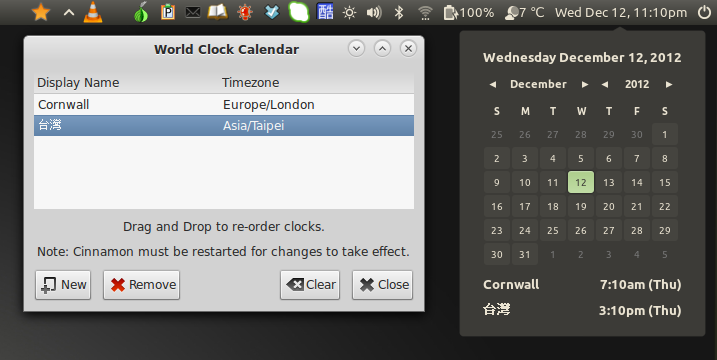
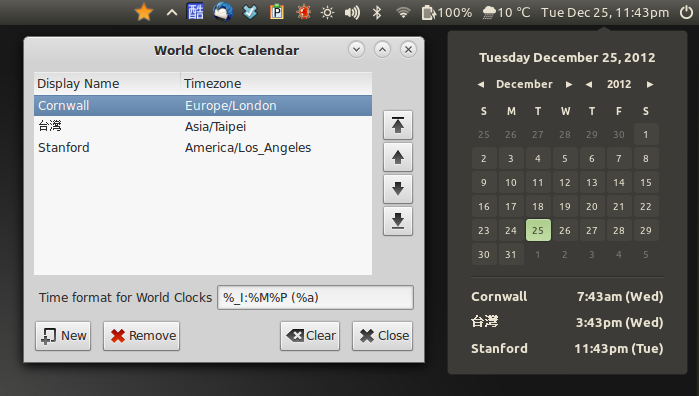
version 0.4

diff --git a/calendar@simonwiles.net/applet.js b/calendar@simonwiles.net/applet.js
@@ -1,27 +1,24 @@
 /*
  *   World Clock Calendar applet calendar@simonwiles.net
  *   Fork of the Cinnamon calendar applet with support for displaying multiple timezones.
- *   version 0.2
+ *   version 0.4
  */
 
 const EXTENSION_UUID = "calendar@simonwiles.net";
-const SCHEMA_NAME = "org.cinnamon.applets.sw_calendar";
 const APPLET_DIR = imports.ui.appletManager.appletMeta[EXTENSION_UUID].path;
 
 const Applet = imports.ui.applet;
-const Calendar = imports.ui.calendar;
-const Clutter = imports.gi.Clutter;
 const Gio = imports.gi.Gio;
-const GLib = imports.gi.GLib;
-const Gtk = imports.gi.Gtk;
 const Lang = imports.lang;
 const Mainloop = imports.mainloop;
-const PopupMenu = imports.ui.popupMenu;
+const Clutter = imports.gi.Clutter;
 const St = imports.gi.St;
-const UPowerGlib = imports.gi.UPowerGlib;
 const Util = imports.misc.util;
-
-let settings;
+const PopupMenu = imports.ui.popupMenu;
+const Calendar = imports.ui.calendar;
+const UPowerGlib = imports.gi.UPowerGlib;
+const GLib = imports.gi.GLib;
+const Gtk = imports.gi.Gtk;
 
 function _onVertSepRepaint(area) {
     let cr = area.get_context();
@@ -40,6 +37,7 @@ function _onVertSepRepaint(area) {
 
 function getSettings(schemaName, appletDir) {
     /* get settings from GSettings */
+
     let schemaDir = appletDir + '/schemas';
 
     // Check if schemas are available in .local or if it's installed system-wide
@@ -82,7 +80,6 @@ MyApplet.prototype = {
             this.menu.addActor(this._calendarArea);
 
             // Fill up the first column
-
             let vbox = new St.BoxLayout({vertical: true});
             this._calendarArea.add(vbox);
 
@@ -98,16 +95,9 @@ MyApplet.prototype = {
             this._calendar = new Calendar.Calendar(this._eventSource);
             vbox.add(this._calendar.actor);
 
-            // World Clocks
-            this._worldclocks = [];
-            for (i in metadata.worldclocks) {
-                let tz = new St.BoxLayout({vertical: false})
-                let tz_label = new St.Label({ style_class: 'datemenu-date-label', text: metadata.worldclocks[i][0] });
-                tz.add(tz_label, {x_align: St.Align.START, expand: true, x_fill: false})
-                this._worldclocks[i] = new St.Label({ style_class: 'datemenu-date-label' });
-                tz.add(this._worldclocks[i], {x_align: St.Align.END, expand: true, x_fill: false})
-                vbox.add(tz);
-            }
+            let separator = new PopupMenu.PopupSeparatorMenuItem();
+            separator.setColumnWidths(1);
+            vbox.add(separator.actor, {y_align: St.Align.END, expand: true, y_fill: false});
 
             // Done with hbox for calendar and event list
 
@@ -126,8 +116,34 @@ MyApplet.prototype = {
             this._upClient = new UPowerGlib.Client();
             this._upClient.connect('notify-resume', getCalendarSettings);
 
+            // World Clocks
+            this._worldclockSettings = getSettings(metadata['settings-schema'], APPLET_DIR);
+            let addWorldClocks = Lang.bind(this, function() {
+                if (this._worldclocks_box) { this._worldclocks_box.destroy(); }
+                this._worldclocks_box = new St.BoxLayout({vertical: true});
+                // add to the calendarArea vbox instead of a new worldclocksArea so that the calendar resizes to the
+                //  full width of the applet drop-down (in case the world clocks are very wide!)
+                vbox.add(this._worldclocks_box);
+                this._worldclock_timeformat = this._worldclockSettings.get_string('time-format');
+                worldclocks = this._worldclockSettings.get_strv('worldclocks');
+                this._worldclocks = [];
+                this._worldclock_labels = [];
+                for (i in worldclocks) { this._worldclocks[i] = worldclocks[i].split('|'); }
+                for (i in this._worldclocks) {
+                    let tz = new St.BoxLayout({vertical: false})
+                    let tz_label = new St.Label({ style_class: 'datemenu-date-label', text: this._worldclocks[i][0] });
+                    tz.add(tz_label, {x_align: St.Align.START, expand: true, x_fill: false})
+                    this._worldclock_labels[i] = new St.Label({ style_class: 'datemenu-date-label' });
+                    tz.add(this._worldclock_labels[i], {x_align: St.Align.END, expand: true, x_fill: false})
+                    this._worldclocks_box.add(tz);
+                }
+            });
+            this._worldclockSettings.connect('changed', addWorldClocks);
+            this._upClient.connect('notify-resume', addWorldClocks);
+
             // Start the clock
             getCalendarSettings();
+            addWorldClocks();
             this._updateClockAndDatePeriodic();
             this.createContextMenu();
 
@@ -148,7 +164,7 @@ MyApplet.prototype = {
 
     _onLaunchWorldClockSettings: function() {
         this.menu.close();
-        let settingsFile = APPLET_DIR + "/settings.py";
+        let settingsFile = APPLET_DIR + "/world_clock_calendar_settings.py";
         Util.spawnCommandLine("python " + settingsFile);
     },
 
@@ -158,16 +174,15 @@ MyApplet.prototype = {
         this.set_applet_label(displayDate.toLocaleFormat(this._dateFormat));
 
         let tooltip = [];
-        for (i in this._metadata.worldclocks) {
-            let tz = this.get_world_time(this._metadata.worldclocks[i][1])
-            this._worldclocks[i].set_text(tz);
-            tooltip.push(rpad(this._metadata.worldclocks[i][0], ' ', 20) + tz);
+        for (i in this._worldclocks) {
+            let tz = this.get_world_time(this._worldclocks[i][1])
+            this._worldclock_labels[i].set_text(tz);
+            tooltip.push(rpad(this._worldclocks[i][0], ' ', 20) + tz);
         }
         this.set_applet_tooltip(tooltip.join('\n'));
 
         if (dateFormattedFull !== this._lastDateFormattedFull) {
             this._date.set_text(dateFormattedFull);
-            //this.set_applet_tooltip(dateFormattedFull);
             this._lastDateFormattedFull = dateFormattedFull;
         }
     },
@@ -232,18 +247,16 @@ MyApplet.prototype = {
     },
 
     get_world_time: function(tz) {
-        let env = GLib.environ_setenv (null, 'TZ', tz, 1)
+        // pass "new Array()" as the first argument, instead of null, because Fedora 17 has an old version of GLib
+        let env = GLib.environ_setenv (new Array(), 'TZ', tz, 1);
         let [res, out, err, status] = GLib.spawn_sync(
-                null, ['date', '+%_I:%M%P (%a)'], env, GLib.SpawnFlags.SEARCH_PATH, null);
-        return out.toString().trim()
-    },
+                null, ['date', '+' + this._worldclock_timeformat], env, GLib.SpawnFlags.SEARCH_PATH, null);
+        return out.toString().trim();
+    }
 
 };
 
 function main(metadata, orientation, panel_height) {
-    // deprecated in favour of storing the clocks in metadata.json, because I can't work out how to unpack a GVariant from GSettings
-    //  in javascripts/GJS (see: http://stackoverflow.com/questions/13736695/unpacking-gvariant-in-javascript)
-    //settings = getSettings(SCHEMA_NAME, APPLET_DIR);
     let myApplet = new MyApplet(metadata, orientation, panel_height);
     return myApplet;
 }

diff --git a/calendar@simonwiles.net/world_clock_calendar_settings.py b/calendar@simonwiles.net/world_clock_calendar_settings.py
@@ -1,17 +1,6 @@
 #!/usr/bin/env python
 #-*- coding:utf-8 -*-
 
-"""
-
-v0.2 - switched to using metadata JSON to store settings, since I can't work
-       out how to unpack a GVariant retreived from GSettings in GJS.  see:
-       stackoverflow.com/questions/13736695/unpacking-gvariant-in-javascript
-
-"""
-
-
-from __future__ import unicode_literals
-
 __program_name__ = 'settings.py'
 __author__ = 'Simon Wiles'
 __email__ = 'simonjwiles@gmail.com'
@@ -36,11 +25,16 @@ METADATA = json.load(codecs.open(
                        os.path.join(APPLET_DIR, 'metadata.json'), 'r', 'utf8'))
 SETTINGS = None
 
+# i18n
+from gettext import gettext as _
+#import gettext
+#gettext.install('cinnamon', '/usr/share/cinnamon/locale')
+
 
 def get_settings(schema_name):
     """ Get settings values from corresponding schema file """
 
-    from gi.repository import Gio
+    from gi.repository import Gio # pylint: disable-msg=E0611
 
     # Try to get schema from local installation directory
     schemas_dir = os.path.join(APPLET_DIR, 'schemas')
@@ -61,7 +55,7 @@ def get_timezones():
         timezones_tab = '/usr/share/lib/zoneinfo/tab/zone_sun.tab'
 
     if not os.path.exists(timezones_tab):
-        return liststore_timezones
+        return []
 
     timezones = subprocess.check_output(
                         ['/usr/bin/awk', '!/#/ {print $3}', timezones_tab])
@@ -75,21 +69,25 @@ class SettingsWindow(Gtk.Window):
     def __init__(self):
         Gtk.Window.__init__(self, title=METADATA['name'])
 
-        self.set_size_request(400, 250)
+        self.set_size_request(400, 300)
+        self.set_position(Gtk.WindowPosition.CENTER)
         self.connect('delete-event', self._exit_application)
         self.connect('destroy', self._exit_application)
 
         frame = Gtk.Box(
              orientation=Gtk.Orientation.VERTICAL, border_width=10, spacing=10)
+
+        hbox = Gtk.Box(
+            orientation=Gtk.Orientation.HORIZONTAL, border_width=0, spacing=10)
+
         scrolled_window = Gtk.ScrolledWindow()
         scrolled_window.set_policy(
                             Gtk.PolicyType.AUTOMATIC, Gtk.PolicyType.AUTOMATIC)
 
         self.liststore_worldclocks = Gtk.ListStore(str, str)
 
-        #for item in SETTINGS.get_value('worldclocks'):
-        for item in METADATA.get('worldclocks', []):
-            self.liststore_worldclocks.append(item)
+        for item in SETTINGS.get_value('worldclocks'):
+            self.liststore_worldclocks.append(item.split('|'))
 
         self.treeview = Gtk.TreeView(model=self.liststore_worldclocks)
 
@@ -119,17 +117,42 @@ class SettingsWindow(Gtk.Window):
         scrolled_window.add(self.treeview)
         self.treeview.show()
 
-        frame.pack_start(scrolled_window, True, True, 0)
+        # right-hand buttons
+        hbox.pack_start(scrolled_window, True, True, 0)
+        align = Gtk.Alignment()
+        align.set(0.5, 0.5, 0, 0)
+        vbox = Gtk.VBox()
 
-        label = Gtk.Label(
-                'Drag and Drop to re-order clocks.')
-        frame.pack_start(label, False, False, 0)
+        buttons = (
+            ('top', Gtk.STOCK_GOTO_TOP),
+            ('up', Gtk.STOCK_GO_UP),
+            ('down', Gtk.STOCK_GO_DOWN),
+            ('bottom', Gtk.STOCK_GOTO_BOTTOM),
+        )
 
-        label = Gtk.Label(
-                'Note: Cinnamon must be restarted for changes to take effect.')
-        frame.pack_start(label, False, False, 0)
+        for button in buttons:
+            img = Gtk.Image()
+            img.set_from_stock(button[1], Gtk.IconSize.BUTTON)
+            btn = Gtk.Button(image=img)
+            btn.connect('clicked', self._reorder, button[0])
+            vbox.pack_start(btn, False, False, 0)
 
-        # Buttons box
+        align.add(vbox)
+        hbox.pack_end(align, False, False, 0)
+
+        frame.pack_start(hbox, True, True, 0)
+
+        # time format for World Clocks
+        time_format = SETTINGS.get_string('time-format')
+        hbox = Gtk.HBox()
+        label = Gtk.Label(_('Time format for World Clocks'))
+        self.entry_timeformat = Gtk.Entry()
+        hbox.pack_start(label, False, False, 5)
+        hbox.add(self.entry_timeformat)
+        self.entry_timeformat.set_text(time_format)
+        frame.pack_start(hbox, False, False, 0)
+
+        # bottom buttons
         box_buttons = Gtk.Box(
             orientation=Gtk.Orientation.HORIZONTAL, border_width=0, spacing=10)
 
@@ -146,6 +169,8 @@ class SettingsWindow(Gtk.Window):
         box_buttons.pack_end(btn_close, False, False, 0)
 
         btn_clear = Gtk.Button(stock=Gtk.STOCK_CLEAR)
+        btn_clear = Gtk.Button.new_from_stock(Gtk.STOCK_CLEAR)
+
         btn_clear.connect('clicked', self._clear_entries)
         box_buttons.pack_end(btn_clear, False, False, 0)
 
@@ -154,6 +179,21 @@ class SettingsWindow(Gtk.Window):
         frame.show_all()
         self.add(frame)
         self.show_all()
+
+    def _reorder(self, widget, action):
+        tsel = self.treeview.get_selection()
+        liststore, treeiter = tsel.get_selected()
+        if treeiter is None:
+            return
+        if action == 'top':
+            liststore.move_after(treeiter, None)
+        if action == 'up' and liststore.get_string_from_iter(treeiter) != '0':
+            liststore.move_before(treeiter, liststore.iter_previous(treeiter))
+        if action == 'down' and \
+           int(liststore.get_string_from_iter(treeiter)) + 1 != len(liststore):
+            liststore.move_after(treeiter, liststore.iter_next(treeiter))
+        if action == 'bottom':
+            liststore.move_before(treeiter, None)
 
     def _on_label_edited(self, widget, path, new_value):
         self.liststore_worldclocks[path][0] = new_value
@@ -168,21 +208,17 @@ class SettingsWindow(Gtk.Window):
 
     def _add_entry(self, widget):
         self.liststore_worldclocks.insert(
-                      len(self.liststore_worldclocks), ('[]', 'Europe/London'))
+                  len(self.liststore_worldclocks), ('London', 'Europe/London'))
 
     def _remove_entry(self, widget):
         self.liststore_worldclocks.remove(
                                self.treeview.get_selection().get_selected()[1])
 
     def _save_settings(self):
-        #SETTINGS.set_value('worldclocks', GLib.Variant('a(ss)',
-                          #[tuple(row) for row in self.liststore_worldclocks]))
-
-        worldclocks = METADATA.get('worldclocks', [])
-        worldclocks = [tuple(row) for row in self.liststore_worldclocks]
-        METADATA['worldclocks'] = worldclocks
-        metadata_path = os.path.join(APPLET_DIR, 'metadata.json')
-        json.dump(METADATA, codecs.open(metadata_path, 'w', 'utf8'), indent=2)
+        print [row[0] for row in self.liststore_worldclocks]
+        SETTINGS.set_value('worldclocks', GLib.Variant('as',
+                       ['|'.join(row) for row in self.liststore_worldclocks]))
+        SETTINGS.set_string('time-format', self.entry_timeformat.get_text())
 
     def _exit_application(self, *args):
         try:
@@ -237,7 +273,7 @@ class CellRendererAutoComplete(Gtk.CellRendererText):
 
     def focus_out(self, entry, event, path):
         """ to ensure that changes are saved when the dialogue is closed with
-            the widget still focussed, I'm emitting 'edited' on this even
+            the widget still focussed, I'm emitting 'edited' on this event
             instead of 'editing-done'. The is probably not the correct way,
             but it works very nicely :) """
         new_value = entry.get_text()
@@ -249,7 +285,7 @@ class CellRendererAutoComplete(Gtk.CellRendererText):
 if __name__ == "__main__":
 
     # Initialize and load gsettings values
-    #SETTINGS = get_settings(METADATA['settings-schema'])
+    SETTINGS = get_settings(METADATA['settings-schema'])
 
     SettingsWindow()
     Gtk.main()

diff --git a/README.md b/README.md
@@ -14,6 +14,11 @@ Features:
 * Settings dialogue to add/remove/edit/re-order clocks.
 * Tool-tip shows the additional clocks.
 
+Changes:
+--------
+* v0.4 -- Updated to use GSettings (now updates automatically when the settings are changed, without the need to restart Cinnamon).
+* v0.3 -- fix to work with older versions of GLib (e.g. on Fedora 17).  Thanks to [Pulsar](http://cinnamon-spices.linuxmint.com/users/view/1154).
+
 Credits:
 --------
 * Clem and the Mint Team for the original calendar applet
